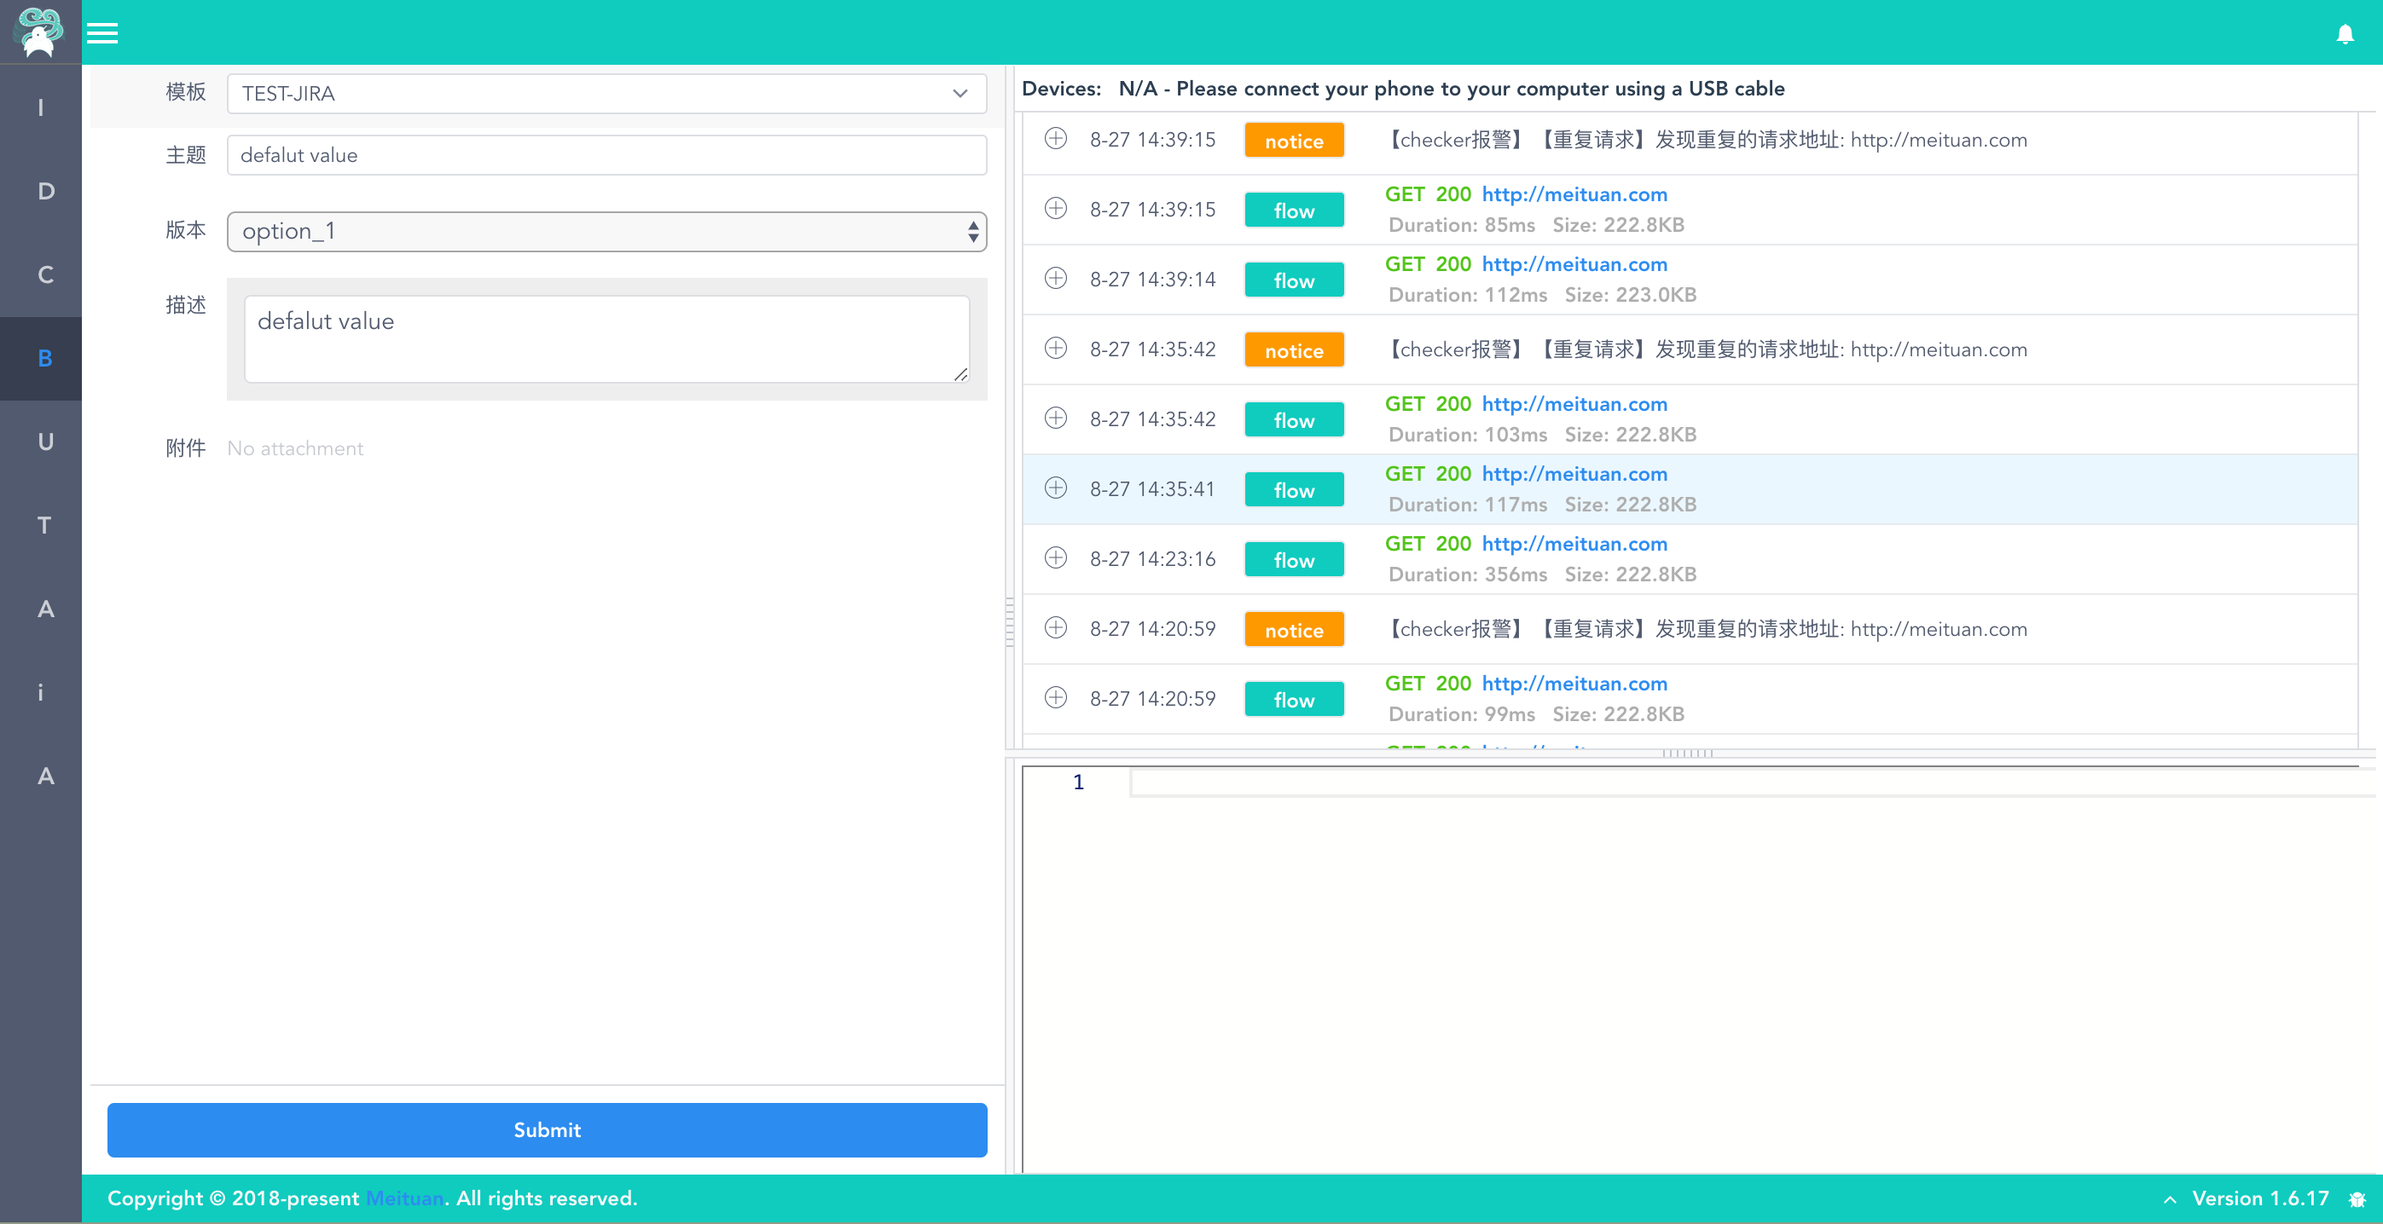
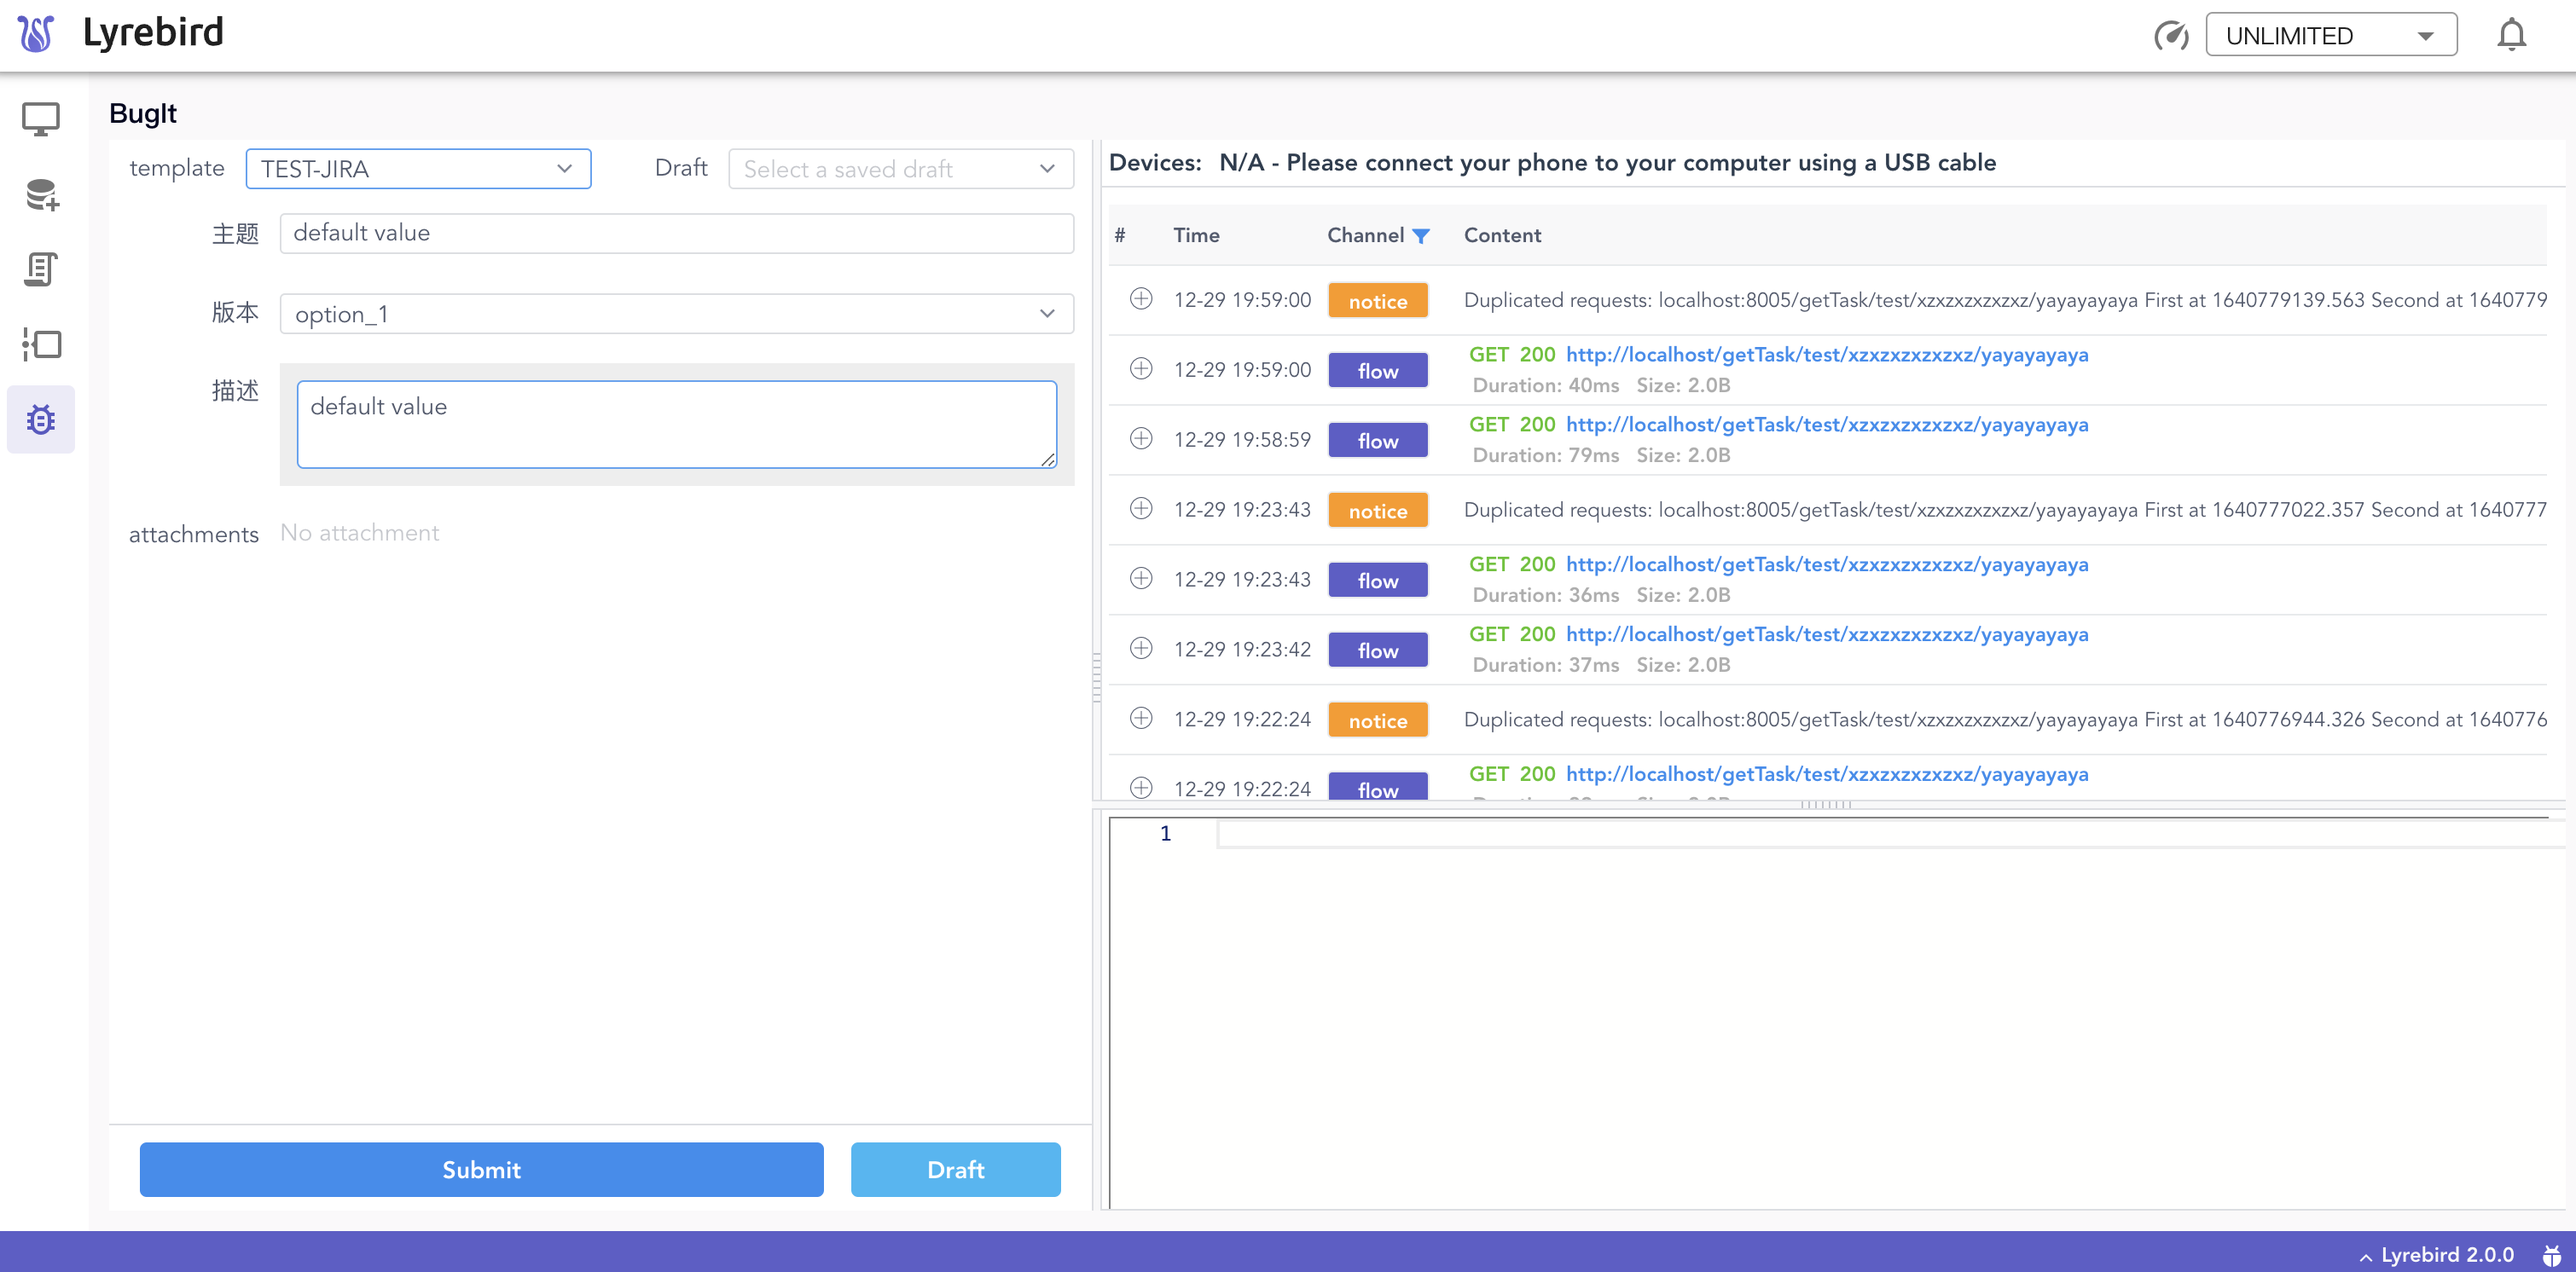
Docs update 2.x (#583)
* 1.Modify checker list's min-width
2.docs update: datamanager/inspector/extension

* Text replace: Checker -> Extension

* Text replace: Checker -> Extension

* Update checker -> extension

* Add bugit draft png

diff --git a/docs/.vuepress/config.js b/docs/.vuepress/config.js
@@ -10,7 +10,7 @@ module.exports = {
     themeConfig: {
         nav: [
             { text: '指南', link: '/guide/' },
-            { text: '检查器', link: '/checker/' },
+            { text: '扩展', link: '/checker/' },
             { text: '插件', link: '/plugins/' },
             { text: '高级', link: '/advance/' },
             { text: '开发者指南', link: '/develop/' },

diff --git a/docs/guide/checker.md b/docs/guide/checker.md
@@ -1,24 +1,26 @@
-# 检查器
-检查器(Checker)是一种支持用户⾃定义的Python脚本，在Lyrebird运行的过程中，于Lyrebird后台并行地工作。展开Checker标签可查看当前运行的检查器。
+# 扩展
+扩展(Extension)是一种支持用户⾃定义的Python脚本，在Lyrebird运行的过程中，于Lyrebird后台并行地工作。展开Checker标签可查看当前运行的检查器。
 
 ![](../img/checker-a.png)
 
-检查器中可以监听Lyrebird中的所有网络请求，也可监听消息总线中的其他事件，对其中需要校验的目标数据进行检测。
+扩展脚本中可以监听Lyrebird中的所有网络请求，也可监听消息总线中的其他事件，对其中需要校验的目标数据进行检测。
 
-## 载入检查器
+## 载入扩展
 
-运行时携带的检查器存放在默认路径~/.lyrebird/checkers下，用户可新增、删除、修改该目录下的检查器。
+运行时携带的扩展脚本存放在默认路径~/.lyrebird/checkers下，用户可新增、删除、修改该目录下的扩展脚本。
 
-更多载入检查器的方式见[载入检查器](/checker/#载入检查器)。
+更多载入检查器的方式见[载入扩展](/checker/#载入扩展)。
 
 ## 示例脚本
 
-运行时，当默认目录中没有可用的检查器时，会自动载入示例脚本。目前提供的示例脚本如下：
+运行时，当默认目录中没有可用的扩展时，会自动载入示例脚本。目前提供的示例脚本如下：
 
-| Filename | Description |
-| :------- | :---------- |
-| [img_size.py](https://github.com/Meituan-Dianping/lyrebird/tree/master/lyrebird/examples/checkers/img_size.py) | 检查网络请求中图片大小是否超出限制 |
-| [duplicate_requests.py](https://github.com/Meituan-Dianping/lyrebird/tree/master/lyrebird/examples/checkers/duplicate_requests.py) | 检查在某段时间内是否有重复的网络请求 |
+| Filename | Type | Description |
+| :------- | :------- | :------- |
+| [img_size.py](https://github.com/Meituan-Dianping/lyrebird/tree/master/lyrebird/examples/checkers/img_size.py) | 检查器 | 检查网络请求中图片大小是否超出限制 |
+| [duplicate_requests.py](https://github.com/Meituan-Dianping/lyrebird/tree/master/lyrebird/examples/checkers/duplicate_requests.py) | 检查器| 检查在某段时间内是否有重复的网络请求 |
+| [add_request_param.py](https://github.com/Meituan-Dianping/lyrebird/tree/master/lyrebird/examples/checkers/add_request_param.py) | 修改器 | 在Request中添加Param |
+| [add_response_header.py](https://github.com/Meituan-Dianping/lyrebird/tree/master/lyrebird/examples/checkers/add_response_header.py) | 修改器 | 在Response中添加Header Key |
 
 检查器编写方式见[第一个检查器](/checker/dev_debug.html)。
 

diff --git a/docs/plugins/bugit.md b/docs/plugins/bugit.md
@@ -2,7 +2,7 @@
 
 BugIt 是一个Issue提交的插件，目前应用于提交Bug场景下。
 
-配合其他插件，BugIt提供了一种准确、快捷、有效的Issue生成服务。除填写Issue配置字段外，BugIt还提供Lyrebird中[检查器](../checker/)([Checker](../checker/))与其他[插件](../plugins/)([Android](./android.md)、[iOS](./ios.md))数据。
+配合其他插件，BugIt提供了一种准确、快捷、有效的Issue生成服务。除填写Issue配置字段外，BugIt还提供Lyrebird中[扩展](../checker/)([Extension](../checker/))与其他[插件](../plugins/)([Android](./android.md)、[iOS](./ios.md))数据。
 
 通过脚本配置，可支持任意Bug管理系统。
 
@@ -53,17 +53,22 @@ BugIt支持自动填充Lyrebird运行过程中抓取到的数据信息。
 
 ### 报警获取
 
-在[检查器](../checker/)([Checker](../checker/))捕获报警后，可以通过通知中心随时跳转至BugIt。
+在[扩展](../checker/)([Extension](../checker/))捕获报警后，可以通过通知中心随时跳转至BugIt。
 
 在右侧数据面板中，可以对历史[消息总线](/advance/eventbus.md)中的信息进行回溯，补充至Bug中。
 
 ![](../img/bugit_alert.gif)
 
-### 缓存功能
+### 保存草稿功能
 
-按下[Commond]+[s]键，会将Bug相关字段信息进行存储。
+按下[Commond]+[s]键，会将Bug相关字段信息进行存储为默认草稿Default。
 
-缓存信息不受Lyrebird服务开关、浏览器缓存、脚本/界面切换的影响。
+自定义草稿步骤如下：
+- 点击Draft按钮 <img src="../img/bugit-draft.png" width=70>
+- 在弹出框中编辑草稿名称(默认为Default)，草稿名称不能重复。
+- 点击保存会将Bug相关字段信息进行存储为该模板下的一份草稿。
+
+草稿信息不受Lyrebird服务开关、浏览器缓存、脚本/界面切换的影响。
 
 ![](../img/bugit_cache.gif)
 

diff --git a/docs/checker/README.md b/docs/checker/README.md
@@ -5,8 +5,8 @@
 无需搭建工程和前端开发，扩展可灵活、轻巧、便捷、准确的对[消息总线](/advance/eventbus.md)频道中的数据进行分析和校验。
 
 Extension默认支持三种类型：
-1. 请求修改器(Modifier): 如为请求添加Header Key、[修改请求的Param](/checker/request_editor.html#修改请求)等
-2. 请求检查器(Checker): 如可通过检查器监听网络请求频道，检测网络请求中的[图片大小](/checker/examples.html#大图检测)是否满足预期，或检测是否[重复请求](/checker/examples.html#重复请求检测)了同一个接口等
+1. [请求修改器(Modifier)](/checker/request_editor.html): 如为请求添加Header Key、[修改请求的Param](/checker/request_editor.html#修改请求)等
+2. [请求检查器(Checker)](/checker/dev_debug.html): 如可通过检查器监听网络请求频道，检测网络请求中的[图片大小](/checker/examples.html#大图检测)是否满足预期，或检测是否[重复请求](/checker/examples.html#重复请求检测)了同一个接口等
 3. 其他(Other): 未分类或者综合应用
 
 可在脚本中使用全局变量**ExtensionCategory**(String类型)人为指定Extension类型

diff --git a/docs/plugins/README.md b/docs/plugins/README.md
@@ -1,5 +1,5 @@
 # 插件
 
-相比[检查器](../checker/)([Checker](../checker/))，插件(Plugin)是一种自定义程度更高的扩展方式。不仅可以监听Lyrebird[事件](../advance/eventbus.html)，还可以自定义UI和接口。通过插件可以完成复杂的功能扩展,对Lyrebird能力进行扩展或者实现定制化的功能。
+相比[扩展](../checker/)([Extension](../checker/))，插件(Plugin)是一种自定义程度更高的扩展方式。不仅可以监听Lyrebird[事件](../advance/eventbus.html)，还可以自定义UI和接口。通过插件可以完成复杂的功能扩展,对Lyrebird能力进行扩展或者实现定制化的功能。
 
 ![](../img/plugins.gif)
